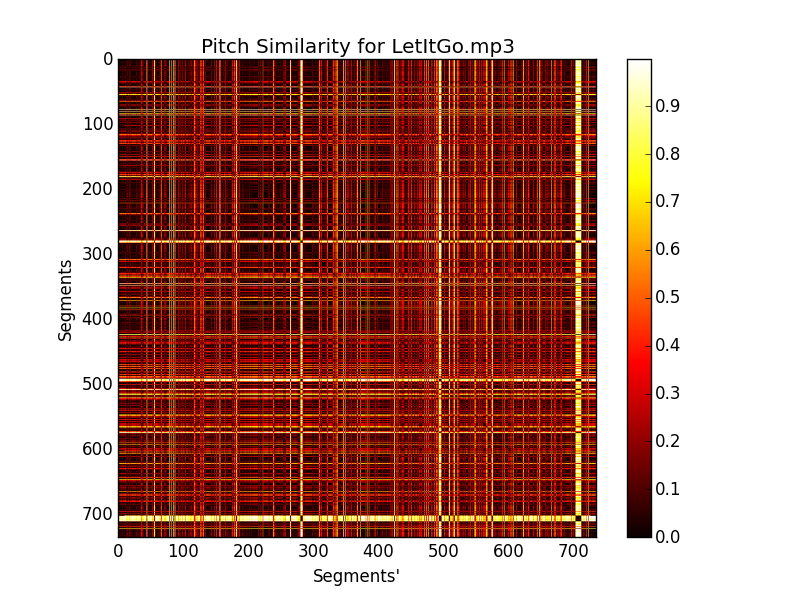
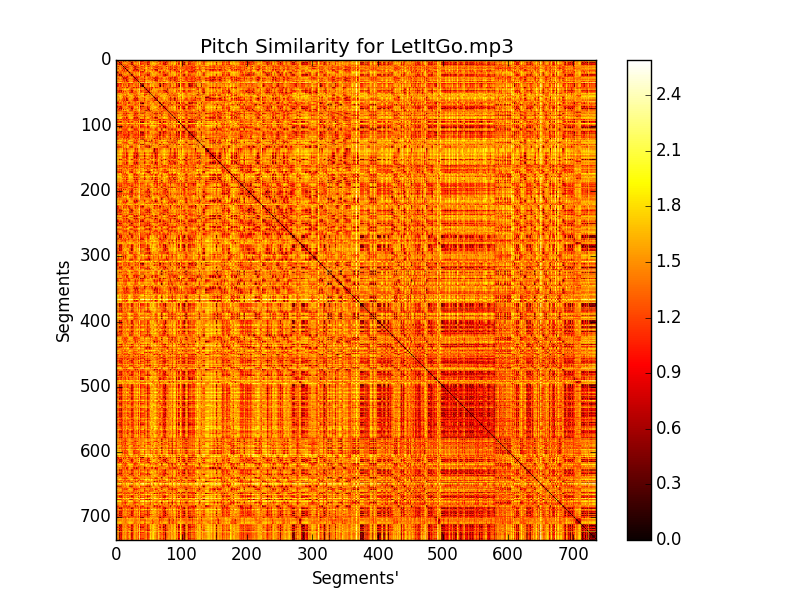
Fixed error with euclidean distance assigning to sum instead of incrementing it. Also enhanced program to save output figure to file instead of just showing in the context

diff --git a/Music Similarity/similarity_visualizer.py b/Music Similarity/similarity_visualizer.py
@@ -16,6 +16,7 @@ Example:
 def main(input_filename, type):
     audiofile = audio.LocalAudioFile(input_filename)
     segments = audiofile.analysis.segments
+    similarity_type = "Timbre" if type == "timbre" else "Pitch"
     print("Number of segments : %d" % len(segments))
     timbres = audiofile.analysis.segments.timbre if type == 'timbre' else audiofile.analysis.segments.pitches
     distance_vect = []
@@ -26,17 +27,17 @@ def main(input_filename, type):
         distance_vect.append(distance)
     print("Showing plot")
     plot.imshow(distance_vect, cmap="hot")
-    plot.title("Timbre Similarity for %s" % input_filename if type == 'timbre' \
-        else "Pitch Similarity for %s" % input_filename)
+    plot.title("%s Similarity for %s" % (similarity_type, input_filename))
     plot.colorbar()
     plot.ylabel("Segments")
     plot.xlabel("Segments'")
+    plot.savefig(input_filename[:input_filename.rfind('.')] + "_" + similarity_type + ".png")
     plot.show()
 
 def euclidean_distance(vect1, vect2):
     sum_vect = 0
     for i in range(len(vect1)):
-        sum_vect = (vect1[i] - vect2[i]) ** 2
+        sum_vect += (vect1[i] - vect2[i]) ** 2
     return math.sqrt(sum_vect)
 
 
